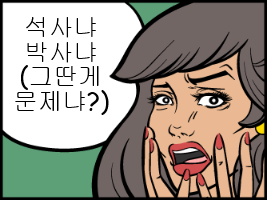
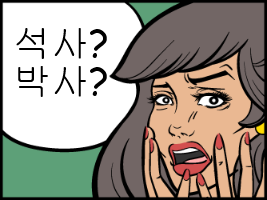
econ

Changed region(s): [[0.0599, 0.09, 0.4195, 0.57]]

diff --git a/_posts/econometrics/2022-05-02-econometrics_6.md b/_posts/econometrics/2022-05-02-econometrics_6.md
@@ -12,7 +12,8 @@ toc_sticky: true
 
 ![match!](../../assets/images/2022-05-02-econometrics_6/match!.png)
 
-아름다운 매칭의 순간이다(?)
+> 아름다운 매칭의 순간이다
+>
 
 
 
@@ -213,7 +214,13 @@ $$
 
 ### Propensity Score Matching (PSM)
 
-X가 multi-dimension이라면?! 여러 차원에 대한 X의 값들에 대해 가장 가까운 점을 구하는 것은 어떤 방법일까? 그것이 Propensity score matching이다.
+X가 multi-dimension이라면?!
+
+여러 차원에 대한 X의 값들에 대해 가장 가까운 점을 구하는 것은 어떤 방법일까? 
+
+그것이 Propensity score matching이다.
+
+
 
 ![image-20220613015352773](../../assets/images/2022-05-02-econometrics_6/image-20220613015352773.png)
 

diff --git a/_posts/econometrics/2022-03-02-econometrics_1-1.md b/_posts/econometrics/2022-03-02-econometrics_1-1.md
@@ -12,7 +12,7 @@ toc_sticky: true
 
 ![sorry](../../assets/images/2022-03-02-econometrics_1-1/sorry.png)
 
-(이것은 차마 교수님의 가르침을 받는 학생이라 할 수 없는 형편없는 지식을 만회하기 위한 하찮은 노력이다)
+> 시작이 반이다
 
 
 

diff --git a/_posts/econometrics/2022-03-28-econometrics_3.md b/_posts/econometrics/2022-03-28-econometrics_3.md
@@ -12,7 +12,8 @@ toc_sticky: true
 
 ![choosing_menu](../../assets/images/2022-03-28-econometrics_3/choosing_menu.png)
 
-한식 양식 일식 중식, 그것이 multiple choice다.
+> 한식 양식 일식 중식, 그것이 multiple choice다.
+>
 
 
 

diff --git a/_posts/econometrics/2022-03-21-econometrics_2.md b/_posts/econometrics/2022-03-21-econometrics_2.md
@@ -12,7 +12,8 @@ toc_sticky: true
 
 ![master_or_phd](../../assets/images/2022-03-21-econometrics_2/master_or_phd.png)
 
-석사냐 박사냐, 그것이 binary choice다.
+> 석사냐 박사냐, 그것이 binary choice다.
+>
 
 
 

diff --git a/_posts/econometrics/2022-05-18-econometrics_8.md b/_posts/econometrics/2022-05-18-econometrics_8.md
@@ -12,7 +12,8 @@ toc_sticky: true
 
 ![Aaaak_Kkang](../../assets/images/2022-05-18-econometrics_8/Aaaak_Kkang.png)
 
-본문과 별 관련은 없다
+> 본문과 별 관련은 없다
+>
 
 
 

diff --git a/_posts/econometrics/2022-05-25-econometrics_9.md b/_posts/econometrics/2022-05-25-econometrics_9.md
@@ -12,7 +12,8 @@ toc_sticky: true
 
 ![discontinuity](../../assets/images/2022-05-25-econometrics_9/discontinuity.png)
 
-술로 인한 불연속성
+> 술로 인한 불연속성
+>
 
 
 

diff --git a/_posts/econometrics/2022-04-05-econometrics_4.md b/_posts/econometrics/2022-04-05-econometrics_4.md
@@ -12,7 +12,8 @@ toc_sticky: true
 
 ![censoring](../../assets/images/2022-04-05-econometrics_4/censoring.png)
 
-밑바닥 아래의 지하층
+> 밑바닥 아래의 지하층
+>
 
 
 

diff --git a/_posts/econometrics/2022-04-13-econometrics_5-1.md b/_posts/econometrics/2022-04-13-econometrics_5-1.md
@@ -12,7 +12,8 @@ toc_sticky: true
 
 ![wanna_smile](../../assets/images/2022-04-13-econometrics_5-1/wanna_smile.png)
 
-웃으면 복이 와요. 
+> 웃으면 복이 와요. 
+>
 
 
 

diff --git a/_posts/econometrics/2022-05-11-econometrics_7-2.md b/_posts/econometrics/2022-05-11-econometrics_7-2.md
@@ -12,7 +12,8 @@ toc_sticky: true
 
 ![LATE](../../assets/images/2022-05-11-econometrics_7-2/image-20220615013154584.png)
 
-
+> 늦었다 (*작성당일 기말고사)
+>
 
 
 

diff --git a/_posts/econometrics/2022-03-07-econometrics_1-2.md b/_posts/econometrics/2022-03-07-econometrics_1-2.md
@@ -12,7 +12,8 @@ toc_sticky: true
 
 ![common_bias](../../assets/images/2022-03-07-econometrics_1-2/common_bias.png)
 
-흔한 편향
+> 흔한 편향
+>
 
 
 

diff --git a/_posts/econometrics/2022-04-25-econometrics_5-2.md b/_posts/econometrics/2022-04-25-econometrics_5-2.md
@@ -12,7 +12,8 @@ toc_sticky: true
 
 ![conditional](../../assets/images/2022-04-25-econometrics_5-2/conditional.png)
 
-조건부
+> 조건부
+>
 
 
 

diff --git a/_posts/econometrics/2022-05-11-econometrics_7-1.md b/_posts/econometrics/2022-05-11-econometrics_7-1.md
@@ -10,7 +10,8 @@ toc_sticky: true
 
 ![z](../../assets/images/2022-05-11-econometrics_7/z.png)
 
-
+> 피곤하다
+>
 
 
 
